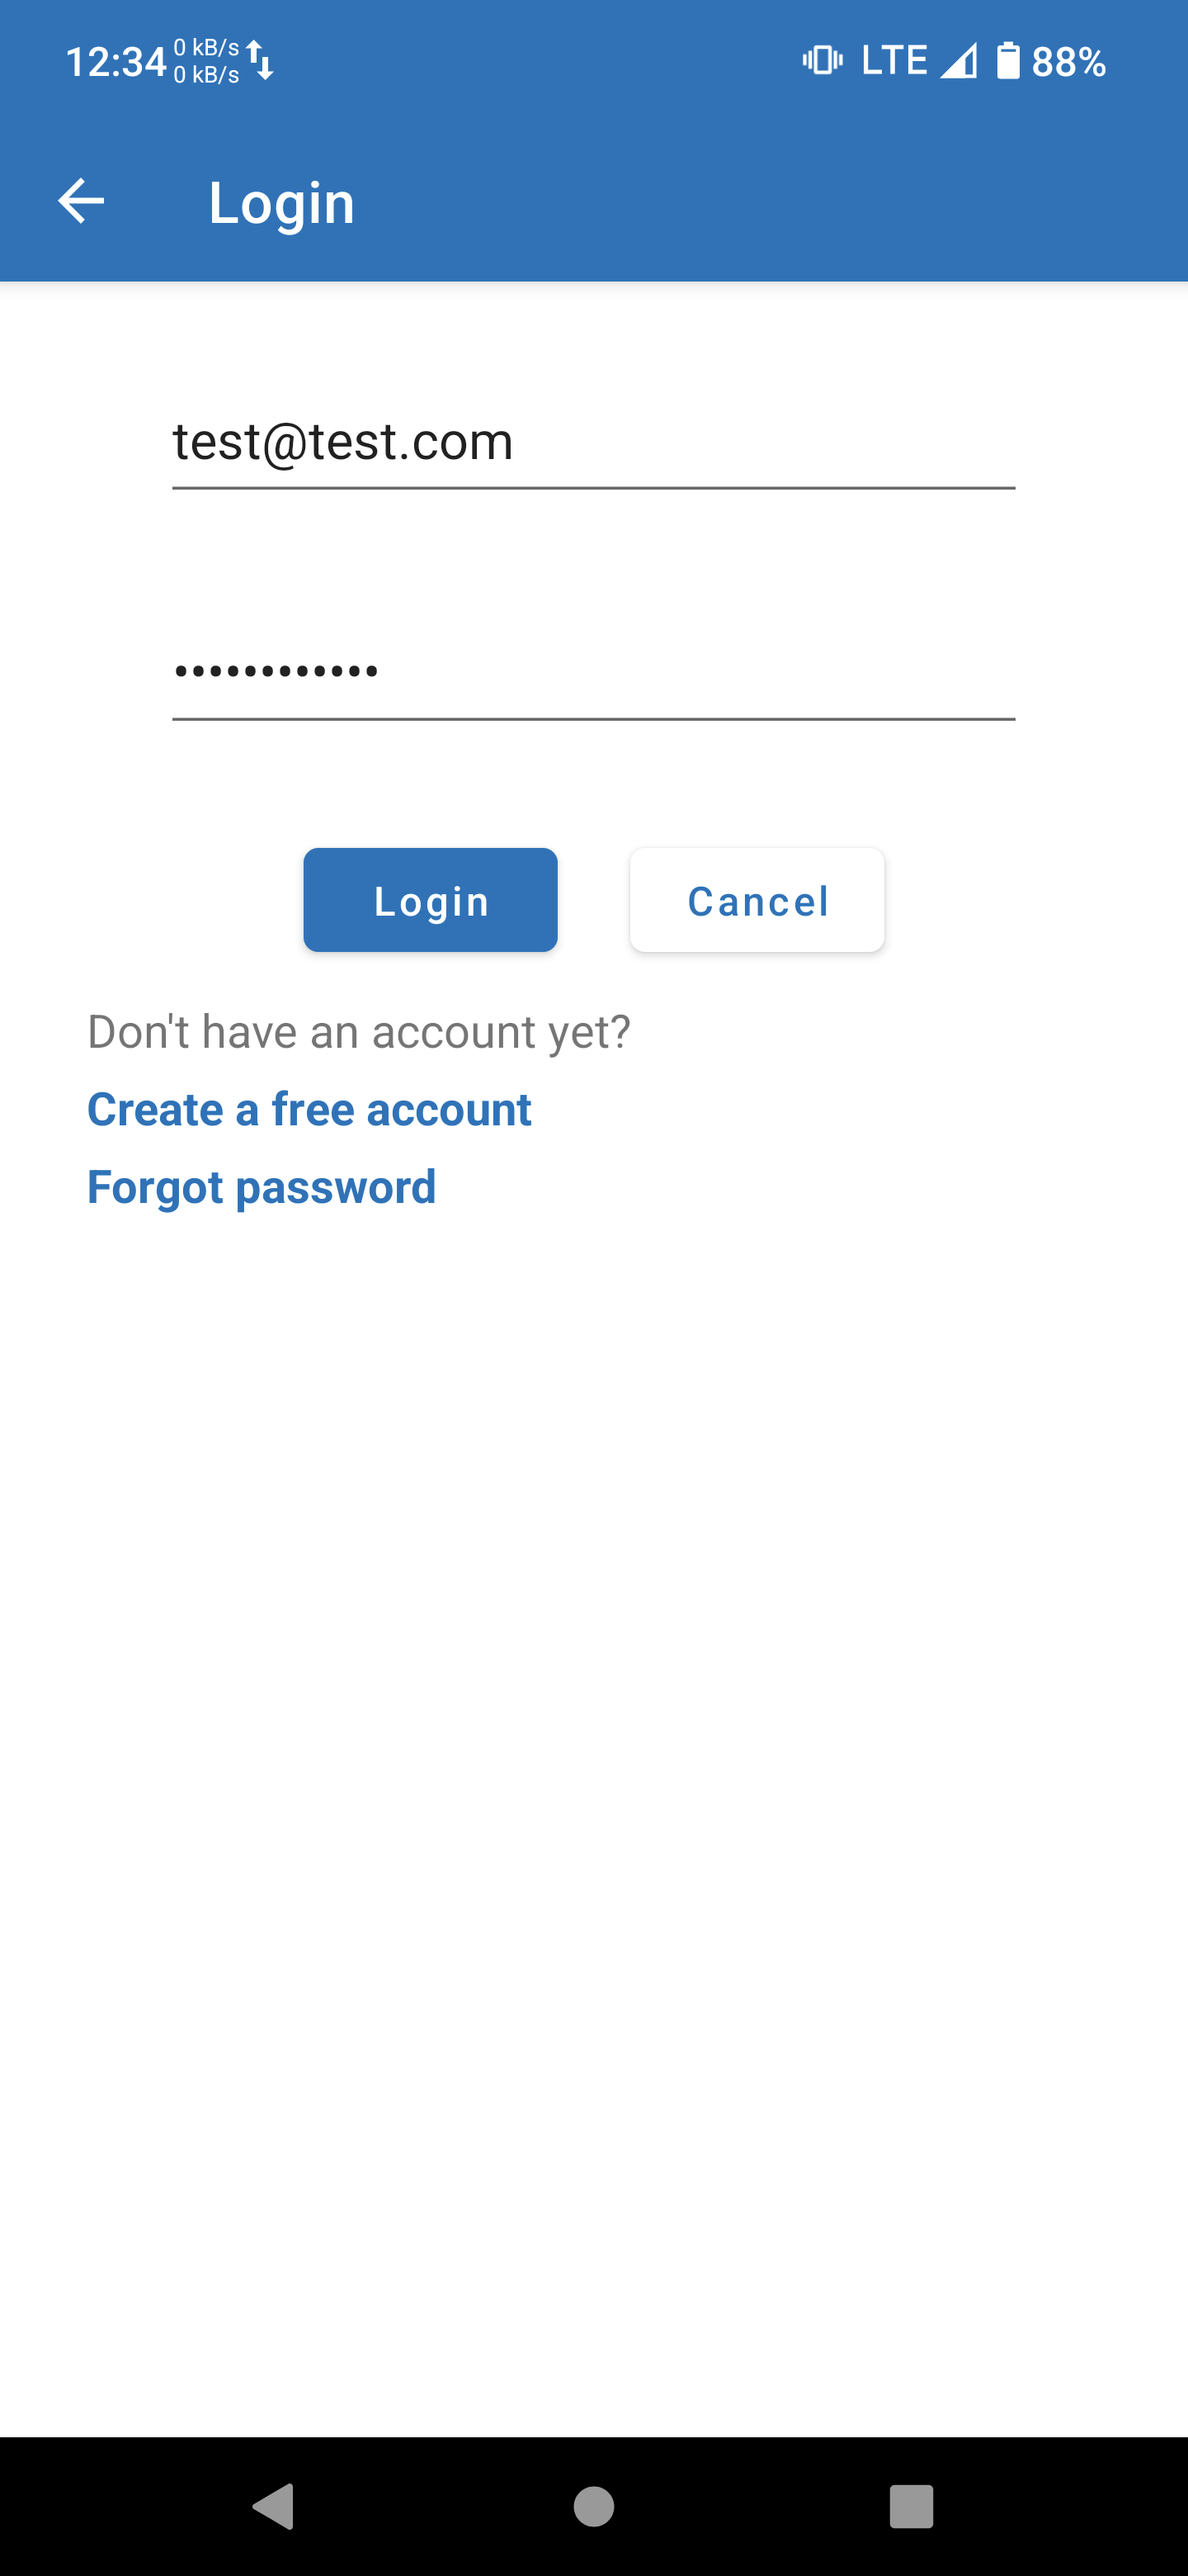
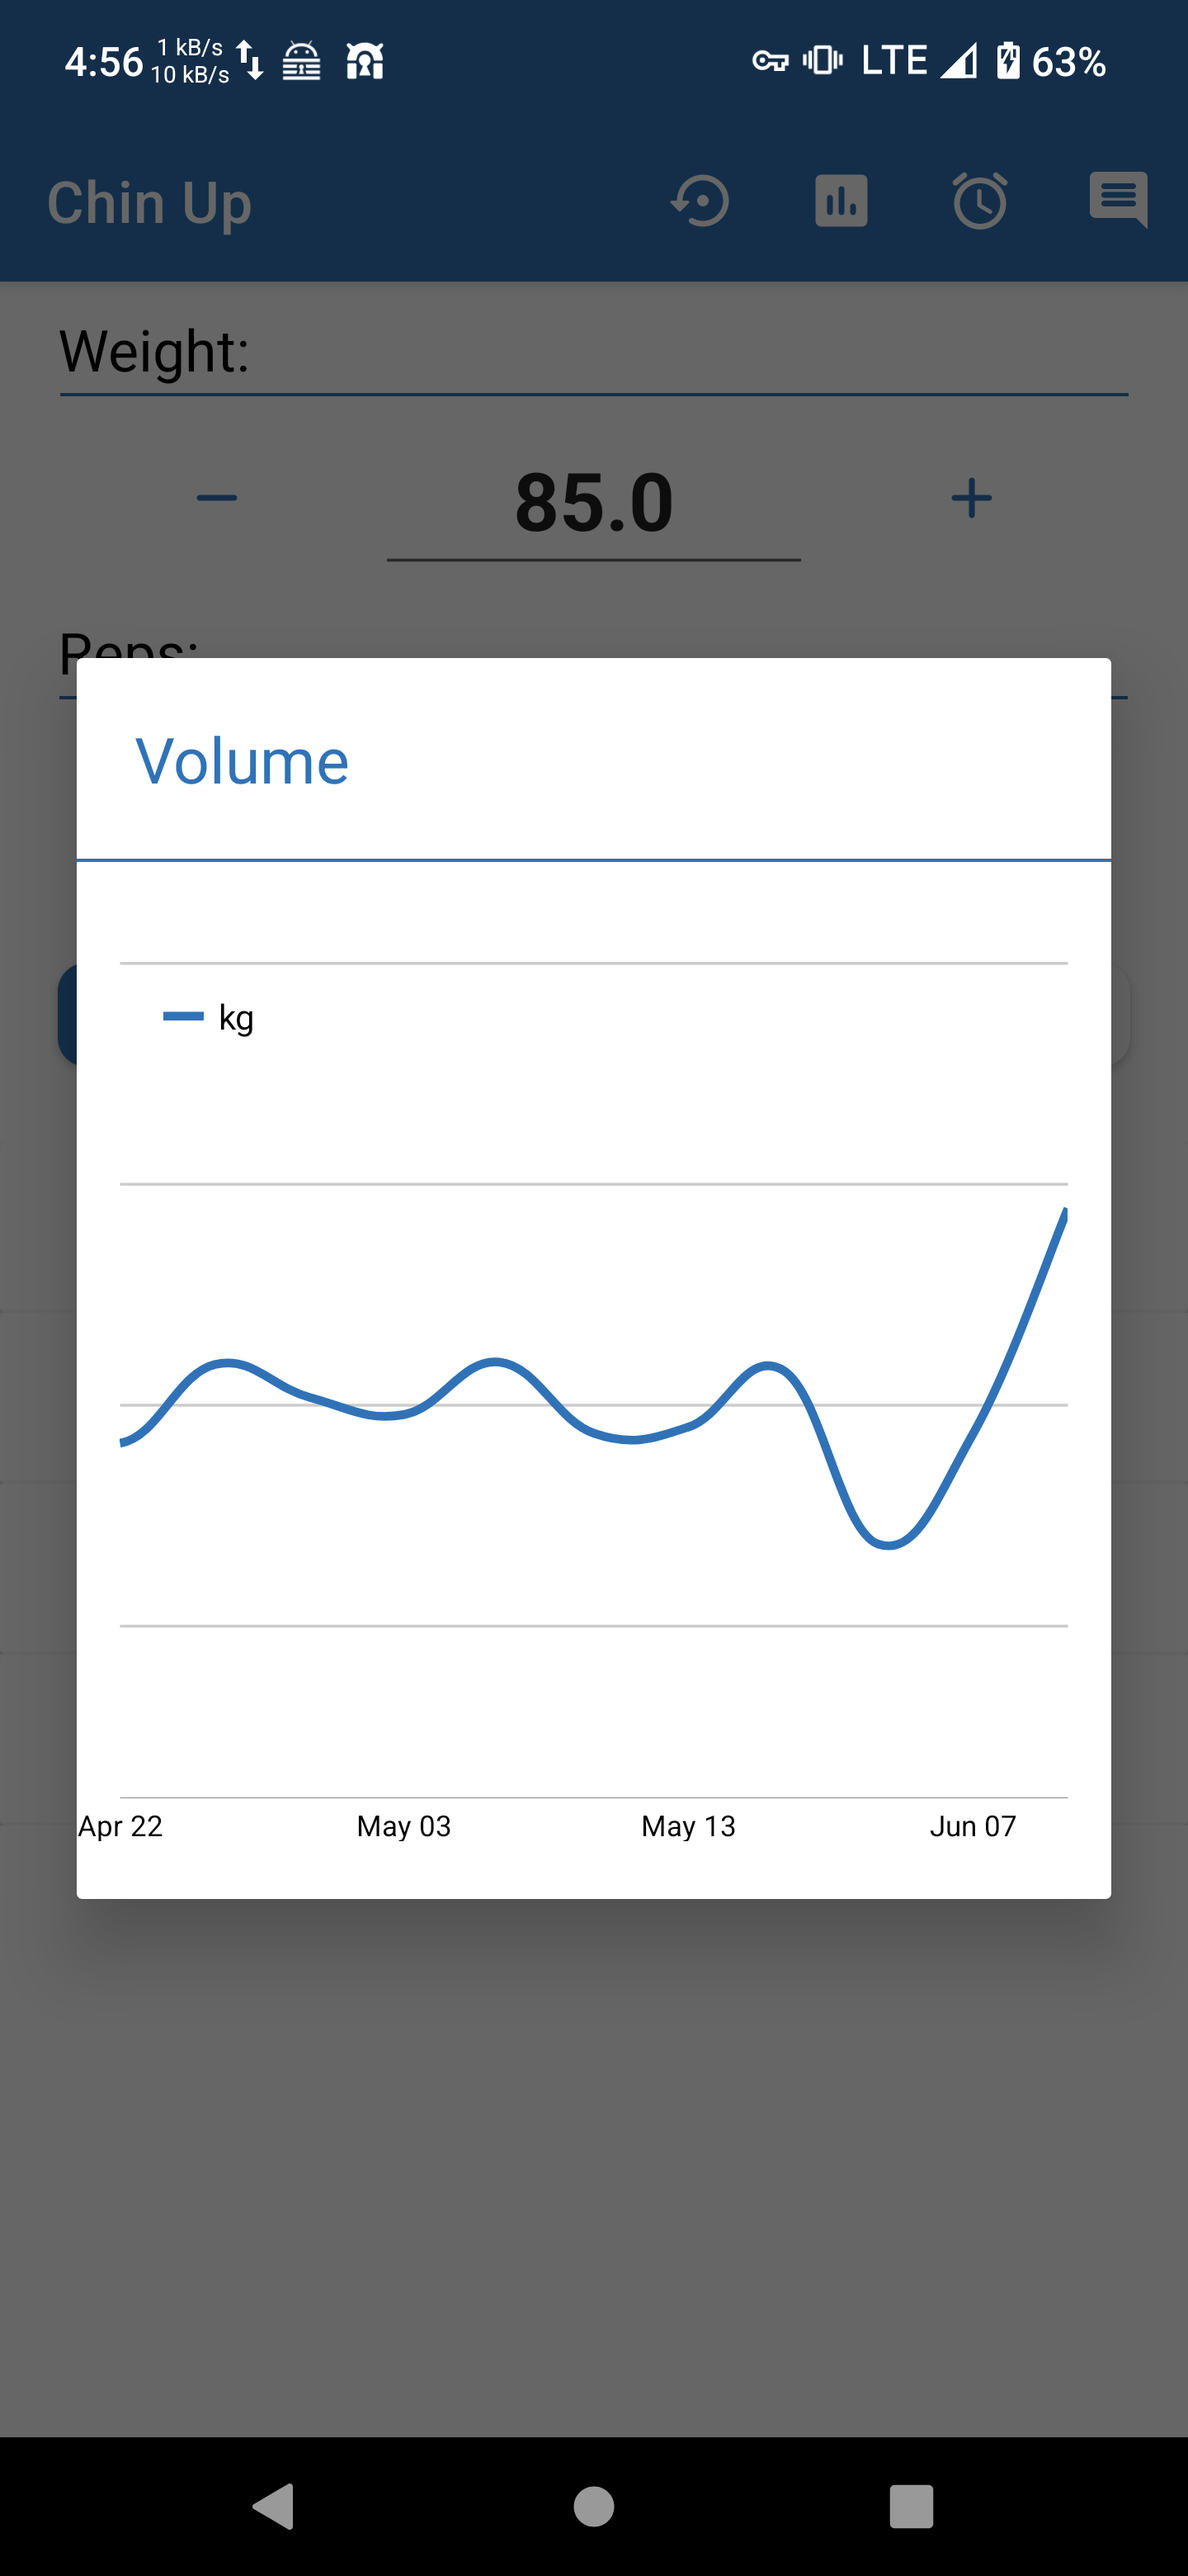
Prettify Charts

diff --git a/verifit/src/main/java/com/example/verifit/ui/AddExerciseActivity.java b/verifit/src/main/java/com/example/verifit/ui/AddExerciseActivity.java
@@ -2,6 +2,7 @@ package com.example.verifit.ui;
 
 import androidx.annotation.NonNull;
 import androidx.appcompat.app.AppCompatActivity;
+import androidx.core.content.ContextCompat;
 import androidx.recyclerview.widget.LinearLayoutManager;
 import androidx.recyclerview.widget.RecyclerView;
 
@@ -26,6 +27,7 @@ import android.widget.Toast;
 
 import com.example.verifit.KeyboardHider;
 import com.example.verifit.LoadingDialog;
+import com.example.verifit.MonthXAxisFormatter;
 import com.example.verifit.SnackBarWithMessage;
 import com.example.verifit.adapters.AddExerciseWorkoutSetAdapter;
 import com.example.verifit.adapters.ExerciseHistoryExerciseAdapter;
@@ -34,7 +36,10 @@ import com.example.verifit.model.WorkoutDay;
 import com.example.verifit.model.WorkoutExercise;
 import com.example.verifit.model.WorkoutSet;
 import com.example.verifit.verifitrs.WorkoutSetsApi;
+import com.github.mikephil.charting.animation.Easing;
 import com.github.mikephil.charting.charts.LineChart;
+import com.github.mikephil.charting.components.Legend;
+import com.github.mikephil.charting.components.XAxis;
 import com.github.mikephil.charting.data.Entry;
 import com.github.mikephil.charting.data.LineData;
 import com.github.mikephil.charting.data.LineDataSet;
@@ -43,8 +48,11 @@ import com.google.gson.reflect.TypeToken;
 
 import java.io.IOException;
 import java.lang.reflect.Type;
+import java.text.ParseException;
+import java.text.SimpleDateFormat;
 import java.util.ArrayList;
-import java.util.StringJoiner;
+import java.util.Date;
+import java.util.Locale;
 
 import okhttp3.Call;
 import okhttp3.Callback;
@@ -910,53 +918,126 @@ public class AddExerciseActivity extends AppCompatActivity {
         }
 
         // Exercise Stats Chart
-        else if(item.getItemId() == R.id.graph)
-        {
+        else if (item.getItemId() == R.id.graph) {
             // Prepare to show exercise history dialog box
             LayoutInflater inflater = LayoutInflater.from(AddExerciseActivity.this);
-            View view = inflater.inflate(R.layout.exercise_graph_dialog,null);
-            AlertDialog alertDialog = new AlertDialog.Builder(AddExerciseActivity.this).setView(view).create();
-
+            View view = inflater.inflate(R.layout.exercise_graph_dialog, null);
+            AlertDialog alertDialog = new AlertDialog.Builder(AddExerciseActivity.this)
+                    .setView(view)
+                    .create();
 
             // Get Chart Object
-            LineChart lineChart = (LineChart) view.findViewById(R.id.lineChart);
+            LineChart lineChart = view.findViewById(R.id.lineChart);
 
             // Create Array List that will hold graph data
-            ArrayList<Entry> Volume_Values = new ArrayList<>();
+            ArrayList<Entry> volumeValues = new ArrayList<>();
+            ArrayList<String> workoutDates = new ArrayList<>();
+            ArrayList<String> workoutMonths = new ArrayList<>();
 
             int x = 0;
 
             // Get Exercise Volume
-            for(int i = 0; i < MainActivity.dataStorage.getWorkoutDays().size(); i++)
-            {
-                for (int j = 0; j < MainActivity.dataStorage.getWorkoutDays().get(i).getExercises().size(); j++)
-                {
-                    WorkoutExercise current_exercise = MainActivity.dataStorage.getWorkoutDays().get(i).getExercises().get(j);
+            for (int i = 0; i < MainActivity.dataStorage.getWorkoutDays().size(); i++) {
+                for (int j = 0; j < MainActivity.dataStorage.getWorkoutDays().get(i).getExercises().size(); j++) {
+                    WorkoutExercise currentExercise = MainActivity.dataStorage.getWorkoutDays().get(i).getExercises().get(j);
 
-                    if(current_exercise.getExercise().equals(exercise_name))
-                    {
-                        Volume_Values.add(new Entry(x,current_exercise.getVolume().floatValue()));
+                    if (currentExercise.getExercise().equals(exercise_name)) {
+                        volumeValues.add(new Entry(x, currentExercise.getVolume().floatValue()));
+                        // Add the date corresponding to the data point
+                        workoutDates.add(MainActivity.dataStorage.getWorkoutDays().get(i).getDate());
+
+                        // Add the month corresponding to the data point
+                        String date = MainActivity.dataStorage.getWorkoutDays().get(i).getDate();
+                        String month = getMonthFromDateString(date);
+                        workoutMonths.add(month);
+
                         x++;
                     }
                 }
             }
 
-            LineDataSet volumeSet = new LineDataSet(Volume_Values,"Volume");
+            LineDataSet volumeSet = new LineDataSet(volumeValues, "kg");
             LineData data = new LineData(volumeSet);
 
-
-            volumeSet.setLineWidth(2f);
+            // Style the line and the values
+            volumeSet.setLineWidth(3f);
+            volumeSet.setColor(ContextCompat.getColor(AddExerciseActivity.this, R.color.colorPrimary));
+            volumeSet.setCircleColor(ContextCompat.getColor(AddExerciseActivity.this, R.color.colorPrimary));
+            volumeSet.setCircleRadius(4f);
+            volumeSet.setCircleHoleColor(Color.WHITE);
             volumeSet.setValueTextSize(10f);
             volumeSet.setValueTextColor(Color.BLACK);
+            volumeSet.setMode(LineDataSet.Mode.CUBIC_BEZIER);
+            // Remove circles around data points
+            volumeSet.setDrawCircles(false);
 
+            // Hide data values next to points
+            volumeSet.setDrawValues(false);
+
+            // Style the chart
             lineChart.setData(data);
             lineChart.getDescription().setEnabled(false);
+            lineChart.setDrawGridBackground(false);
+            lineChart.getXAxis().setPosition(XAxis.XAxisPosition.BOTTOM);
+            lineChart.getXAxis().setDrawGridLines(false);
+            lineChart.getAxisLeft().setDrawGridLines(false);
+            lineChart.getAxisRight().setEnabled(false);
 
+
+            // Enable horizontal grid lines
+            lineChart.getAxisLeft().setDrawGridLines(true);
+            lineChart.getAxisLeft().setGridColor(Color.LTGRAY);
+            lineChart.getAxisLeft().setGridLineWidth(1f);
+
+            // Disable Y-axis line
+            lineChart.getAxisLeft().setDrawAxisLine(false);
+            lineChart.getAxisLeft().setDrawLabels(false);
+
+            // Hide Y-axis values
+            lineChart.getAxisLeft().setEnabled(true);
+            lineChart.getAxisLeft().setTextSize(0f);
+            lineChart.getXAxis().setEnabled(true);
+
+            // Set the custom X-axis value formatter
+            XAxis xAxis = lineChart.getXAxis();
+            xAxis.setValueFormatter(new MonthXAxisFormatter(workoutMonths));
+            xAxis.setGranularity(2f); // Set minimum interval to 1
+            xAxis.setGranularityEnabled(true); // Enable granularity
+
+            xAxis.setLabelCount(5, false); // Display only 5 labels on the X-axis
+
+
+            // Enable pinch zooming
+            lineChart.setPinchZoom(true);
+
+            // Enable scaling (zooming) on both X and Y axes
+            lineChart.setScaleEnabled(true);
+
+            lineChart.animateXY(1000, 1000, Easing.EaseInOutCubic);
+
+
+            // Zoom in to show the last X points
+            int pointsToShow = 10;
+            lineChart.setVisibleXRange(pointsToShow, pointsToShow);
+            lineChart.moveViewToX(volumeValues.size() - pointsToShow);
+
+
+            // Style legend
+            Legend legend = lineChart.getLegend();
+            legend.setOrientation(Legend.LegendOrientation.VERTICAL);
+            legend.setHorizontalAlignment(Legend.LegendHorizontalAlignment.LEFT);
+            legend.setVerticalAlignment(Legend.LegendVerticalAlignment.CENTER);
+            legend.setDrawInside(true);
+            legend.setXOffset(30f); // Adjust this value to move the legend horizontally
+            legend.setYOffset(-270); // Adjust this value to move the legend vertically
+            legend.setTextSize(12f);
+            legend.setTextColor(Color.BLACK);
+            legend.setForm(Legend.LegendForm.LINE);
+            legend.setFormLineWidth(3f);
+            legend.setFormSize(14f);
 
             // Show Chart Dialog box
             alertDialog.show();
-
-
         }
 
         // Exercise Comments
@@ -1014,7 +1095,21 @@ public class AddExerciseActivity extends AppCompatActivity {
         return super.onOptionsItemSelected(item);
     }
 
-    // Makes necessary checks and saves comment
+    private String getMonthFromDateString(String dateString) {
+        try {
+            SimpleDateFormat sdf = new SimpleDateFormat("yyyy-MM-dd", Locale.getDefault());
+            Date date = sdf.parse(dateString);
+            SimpleDateFormat monthFormat = new SimpleDateFormat("MMM dd", Locale.getDefault());
+            return monthFormat.format(date);
+        } catch (ParseException e)
+        {
+            e.printStackTrace();
+            return "";
+        }
+    }
+
+
+        // Makes necessary checks and saves comment
     public void saveComment(AlertDialog alertDialog)
     {
         // Let backup service know that something has changed

diff --git a/verifit/src/main/java/com/example/verifit/MonthXAxisFormatter.java b/verifit/src/main/java/com/example/verifit/MonthXAxisFormatter.java
@@ -1,0 +1,34 @@
+package com.example.verifit;
+
+
+import com.github.mikephil.charting.formatter.ValueFormatter;
+
+import java.util.HashSet;
+import java.util.List;
+
+public class MonthXAxisFormatter extends ValueFormatter {
+    private List<String> months;
+    private HashSet<String> uniqueMonths;
+
+    public MonthXAxisFormatter(List<String> months) {
+        this.months = months;
+        this.uniqueMonths = new HashSet<>();
+    }
+
+    @Override
+    public String getFormattedValue(float value) {
+        int index = (int) value;
+        if (index < 0 || index >= months.size()) {
+            return "";
+        }
+
+        String month = months.get(index);
+
+//        if (uniqueMonths.contains(month)) {
+//            return "";
+//        }
+
+        uniqueMonths.add(month);
+        return month;
+    }
+}

diff --git a/verifit/src/main/java/com/example/verifit/ui/MainActivity.java b/verifit/src/main/java/com/example/verifit/ui/MainActivity.java
@@ -388,7 +388,6 @@ public class MainActivity extends AppCompatActivity implements BottomNavigationV
                 super.onPageScrolled(position, positionOffset, positionOffsetPixels);
                 String dateScrolled = dataStorage.getInfiniteWorkoutDays().get(position).getDate();
                 MainActivity.dateSelected = dateScrolled;
-                System.out.println("Scrolled to " + dateScrolled);
             }
         });
 
